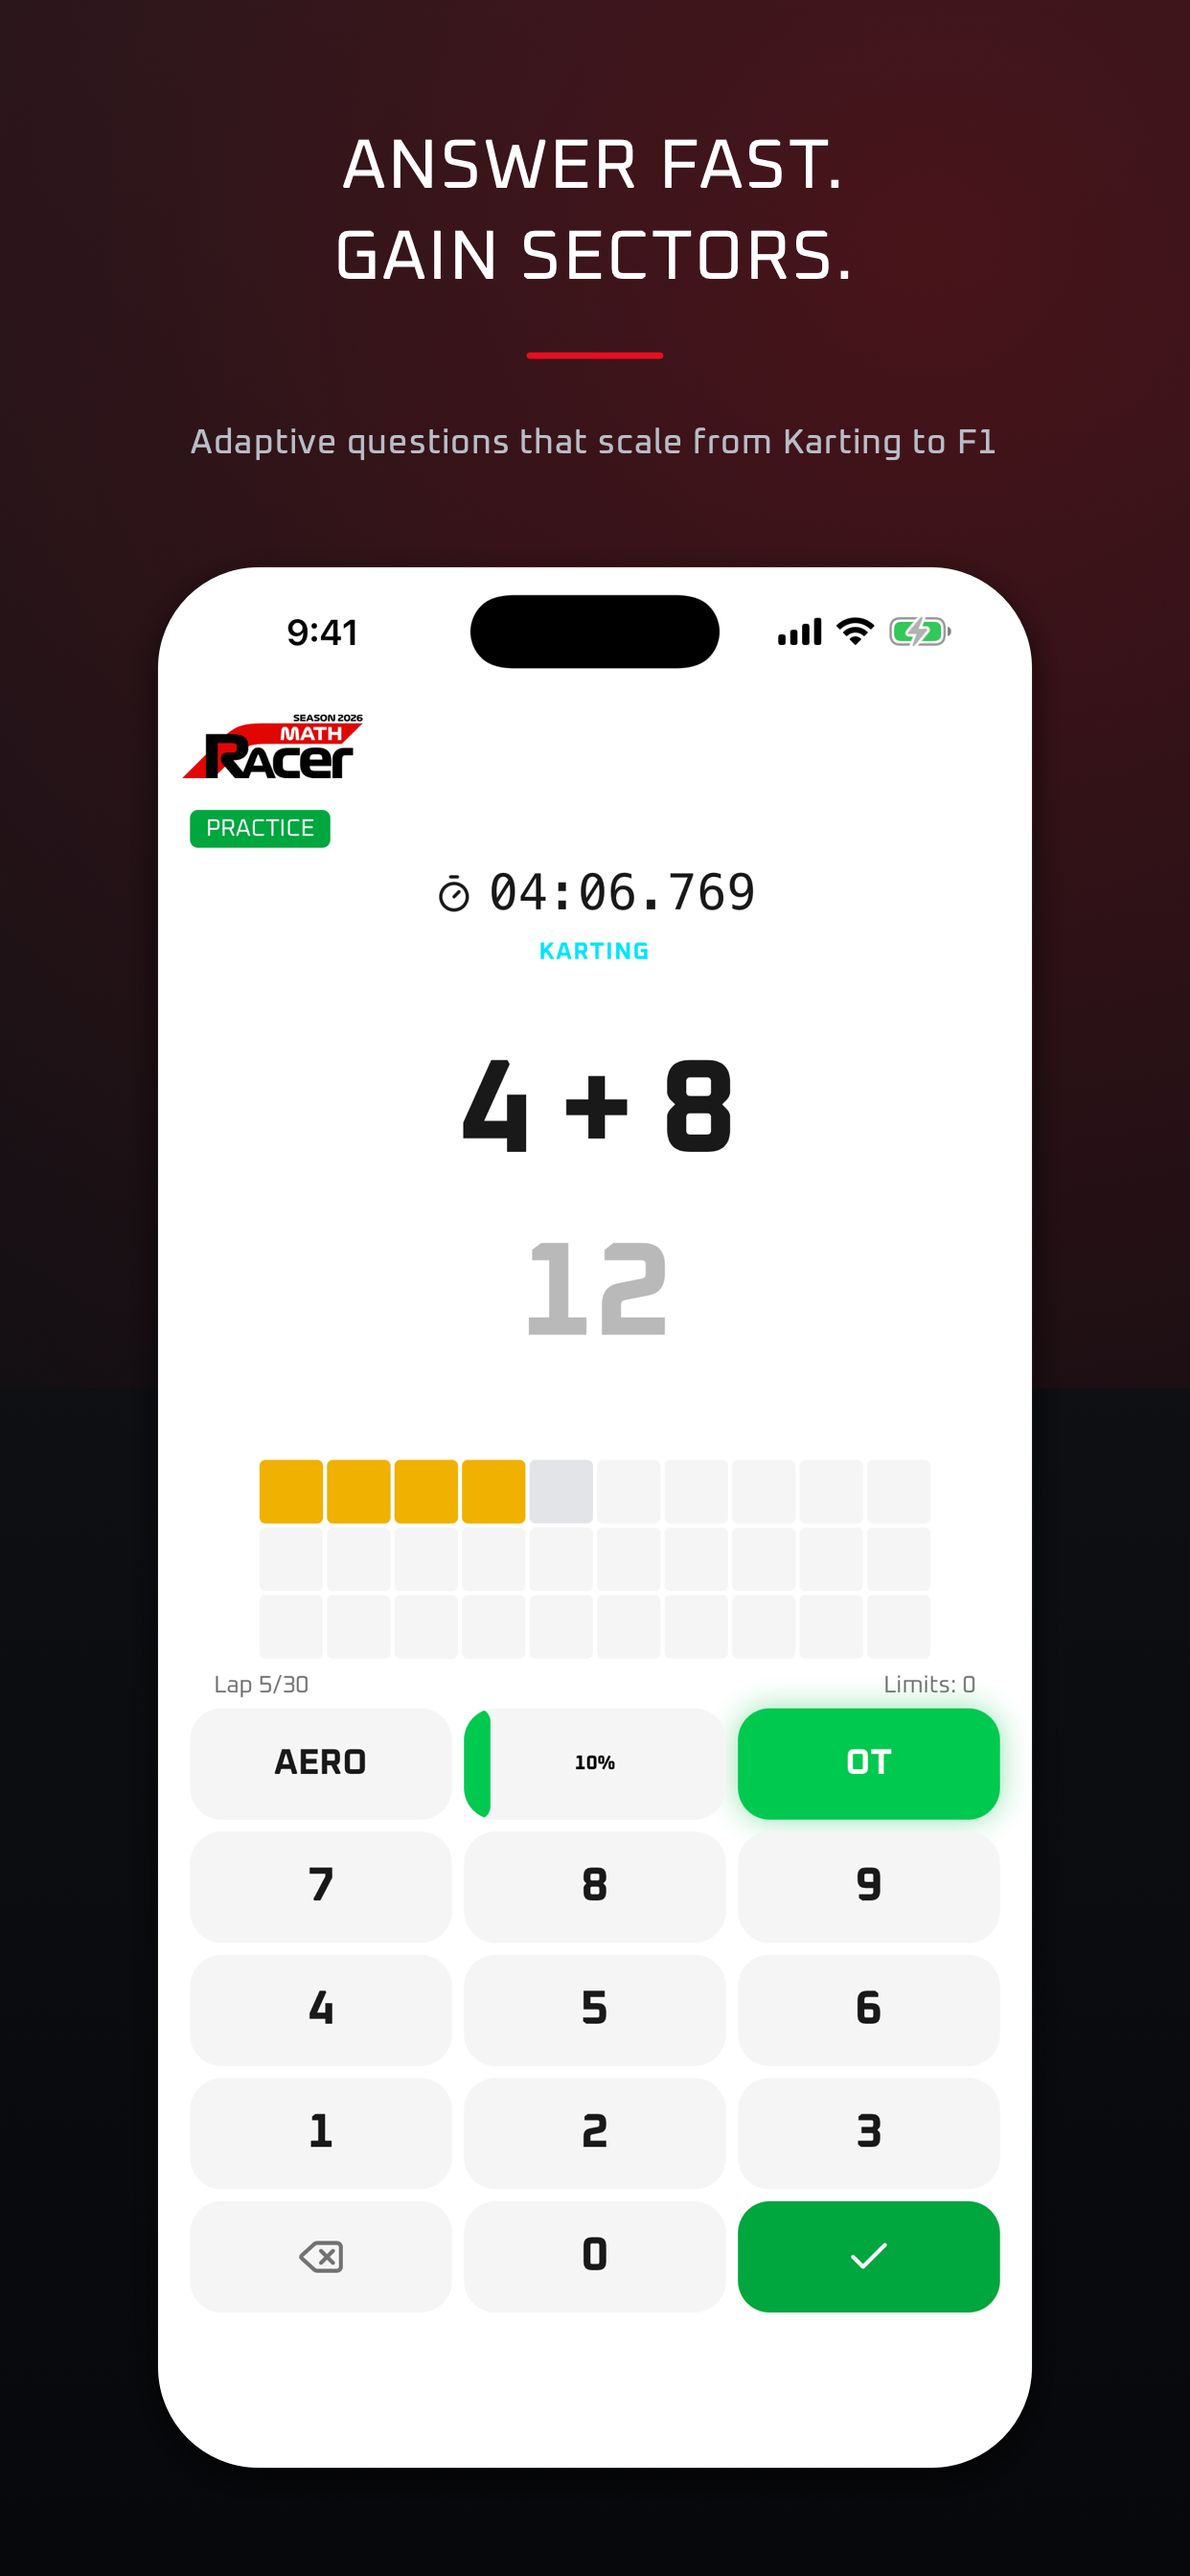
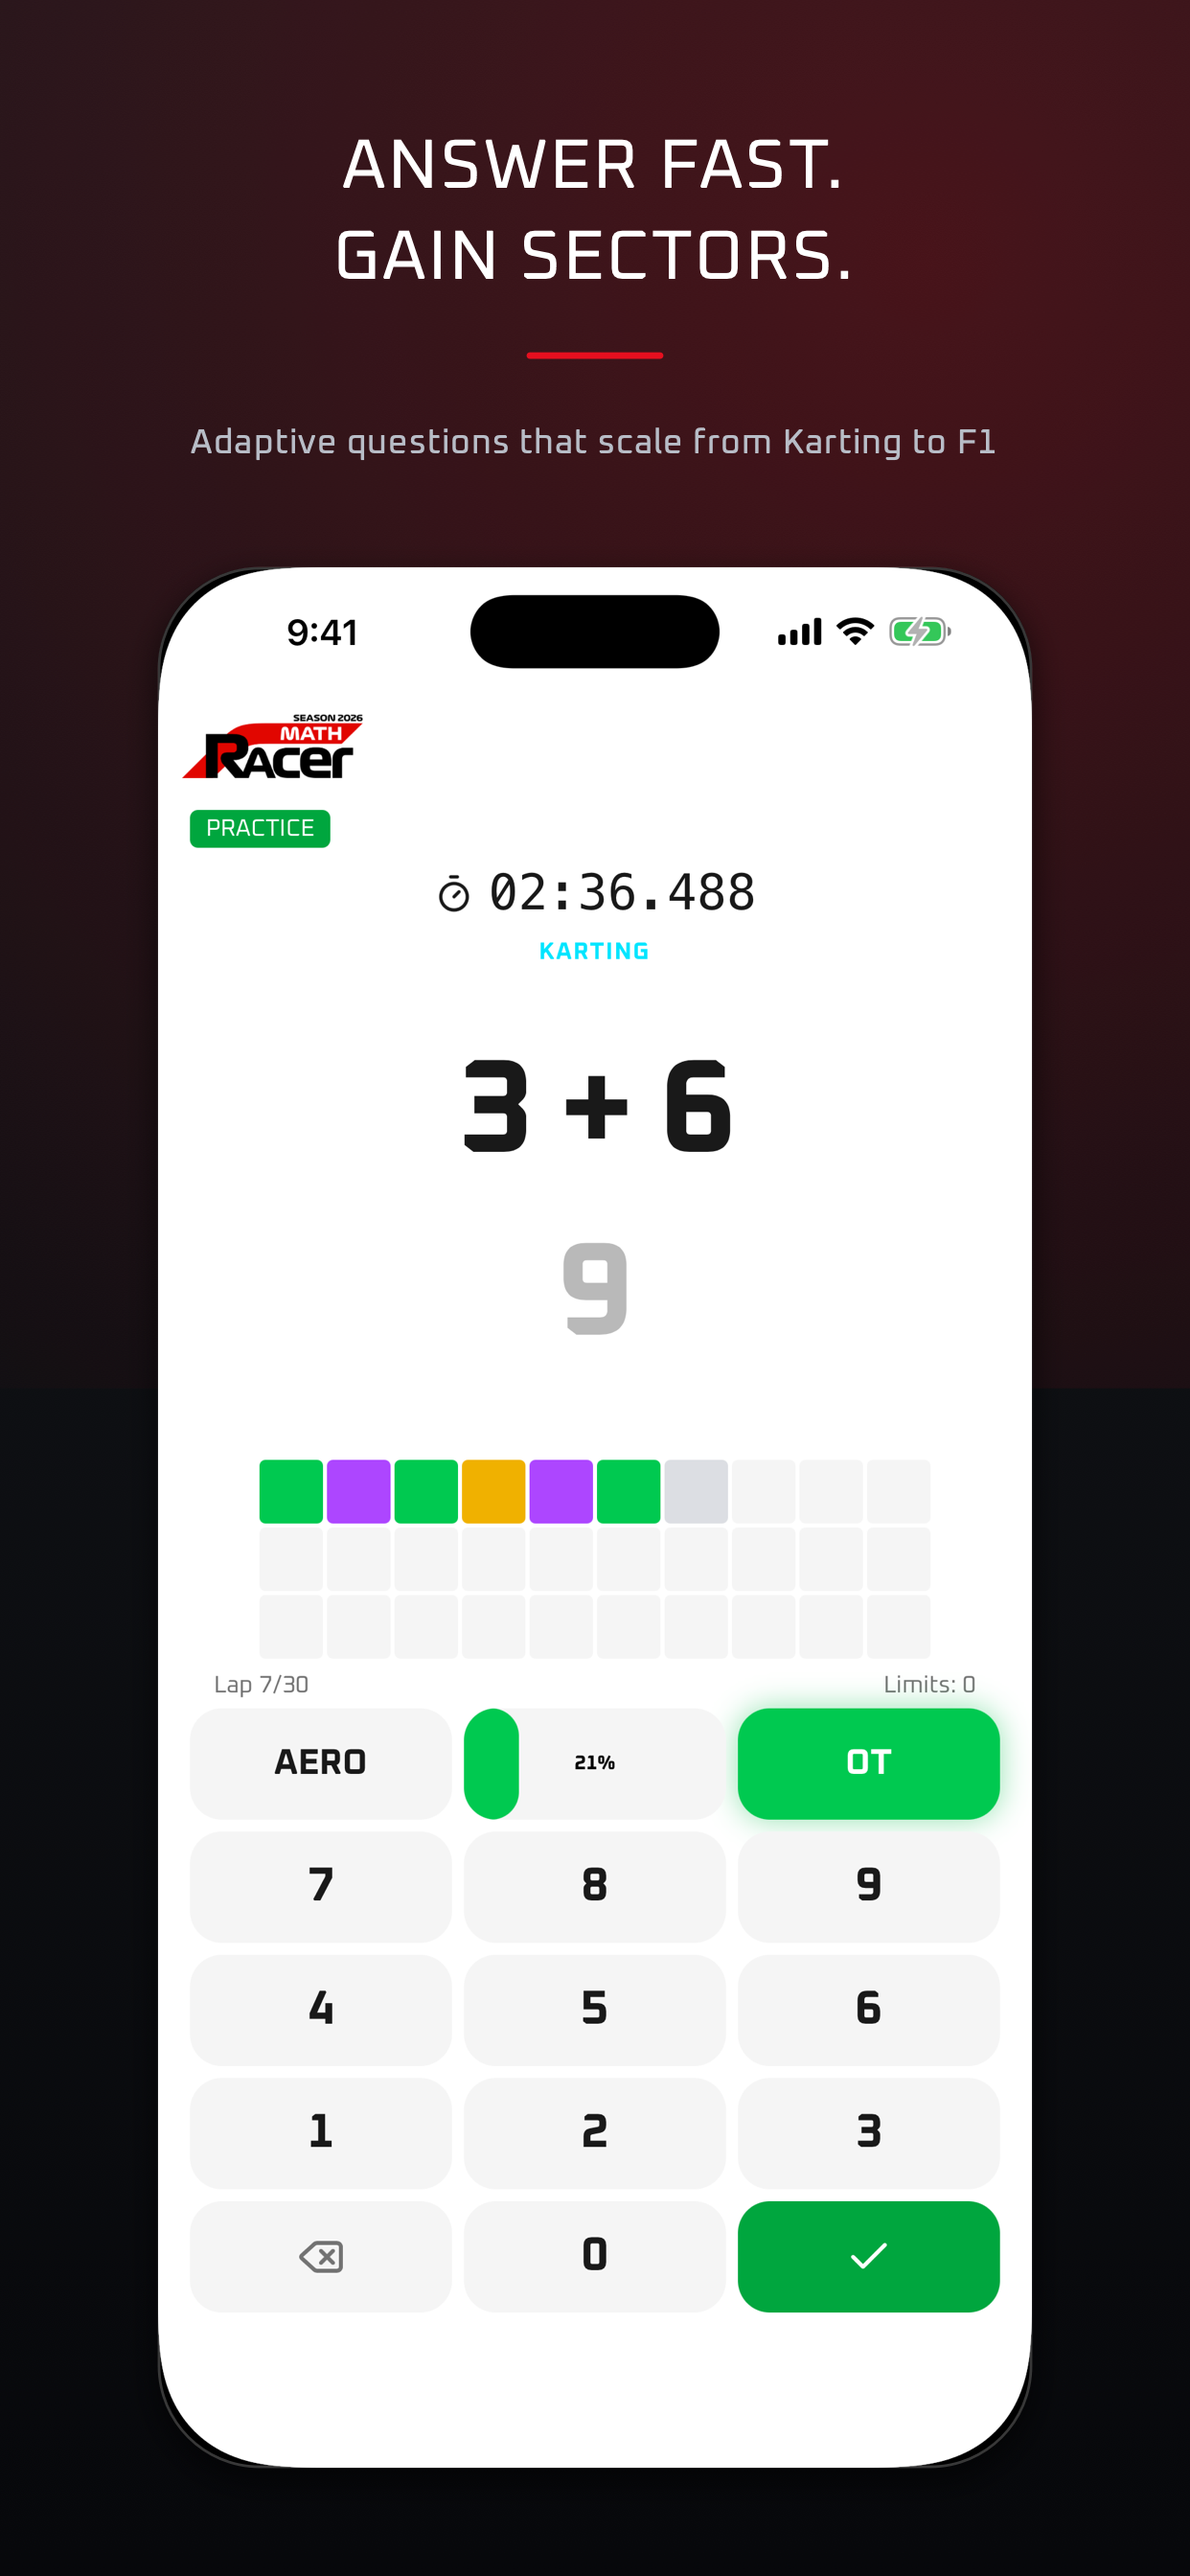
Retake the iPhone race card with green sectors
Like the iPad card in dcca3b6, the iPhone 01_race card showed only yellow
sectors. Retaken from the same capture-only build (practice bot time x12,
reverted, never committed): green, purple, green, yellow, purple, green at
Lap 7/30, with the next answer typed and the check key lit, as before.
The 6.3" copy is remade from it.

diff --git a/app_store/README.md b/app_store/README.md
@@ -89,13 +89,14 @@ Captions use Oxanium, the same font as the app.
   keep the clock low, and pause about 0.3 s before tapping ✓, since a tap right
   after a digit is sometimes dropped (Enter on the simulator keyboard doesn't
   submit). Leave with RETIRE → Yes: a DNF that submits nothing.
-- **iPad race card (`01`)** also needs a capture-only build, or its sectors all come
+- **Race cards (`01`, iPhone and iPad)** also need a capture-only build, or their sectors all come
   out yellow. Practice colours a sector against the question's bot time (purple under
   half of it, green under it, yellow over), about 2–3 s at Karting, and each answer
   through the simulator panel takes longer than that. So, temporarily, multiply
   `question.botTime` in Game.tsx's practice colouring by 12, build, install, then
   revert with `git checkout --`, rebuild and re-sync. Answering at a steady pace then
   gives a mix of green and purple; wait about 45 s on one question for a yellow. The
-  2026-10-20 card stops at Lap 8/30: green, purple, purple, yellow, green, purple, green.
+  2026-10-20 iPad card stops at Lap 8/30 (green, purple, purple, yellow, green, purple,
+  green); the iPhone `01` card, retaken the same way, at Lap 7/30 with its next answer typed.
 - **App opens in a window** on the iPad (window controls top-left, wallpaper
   around it): tap the controls, then the green button, and it stays full screen.
